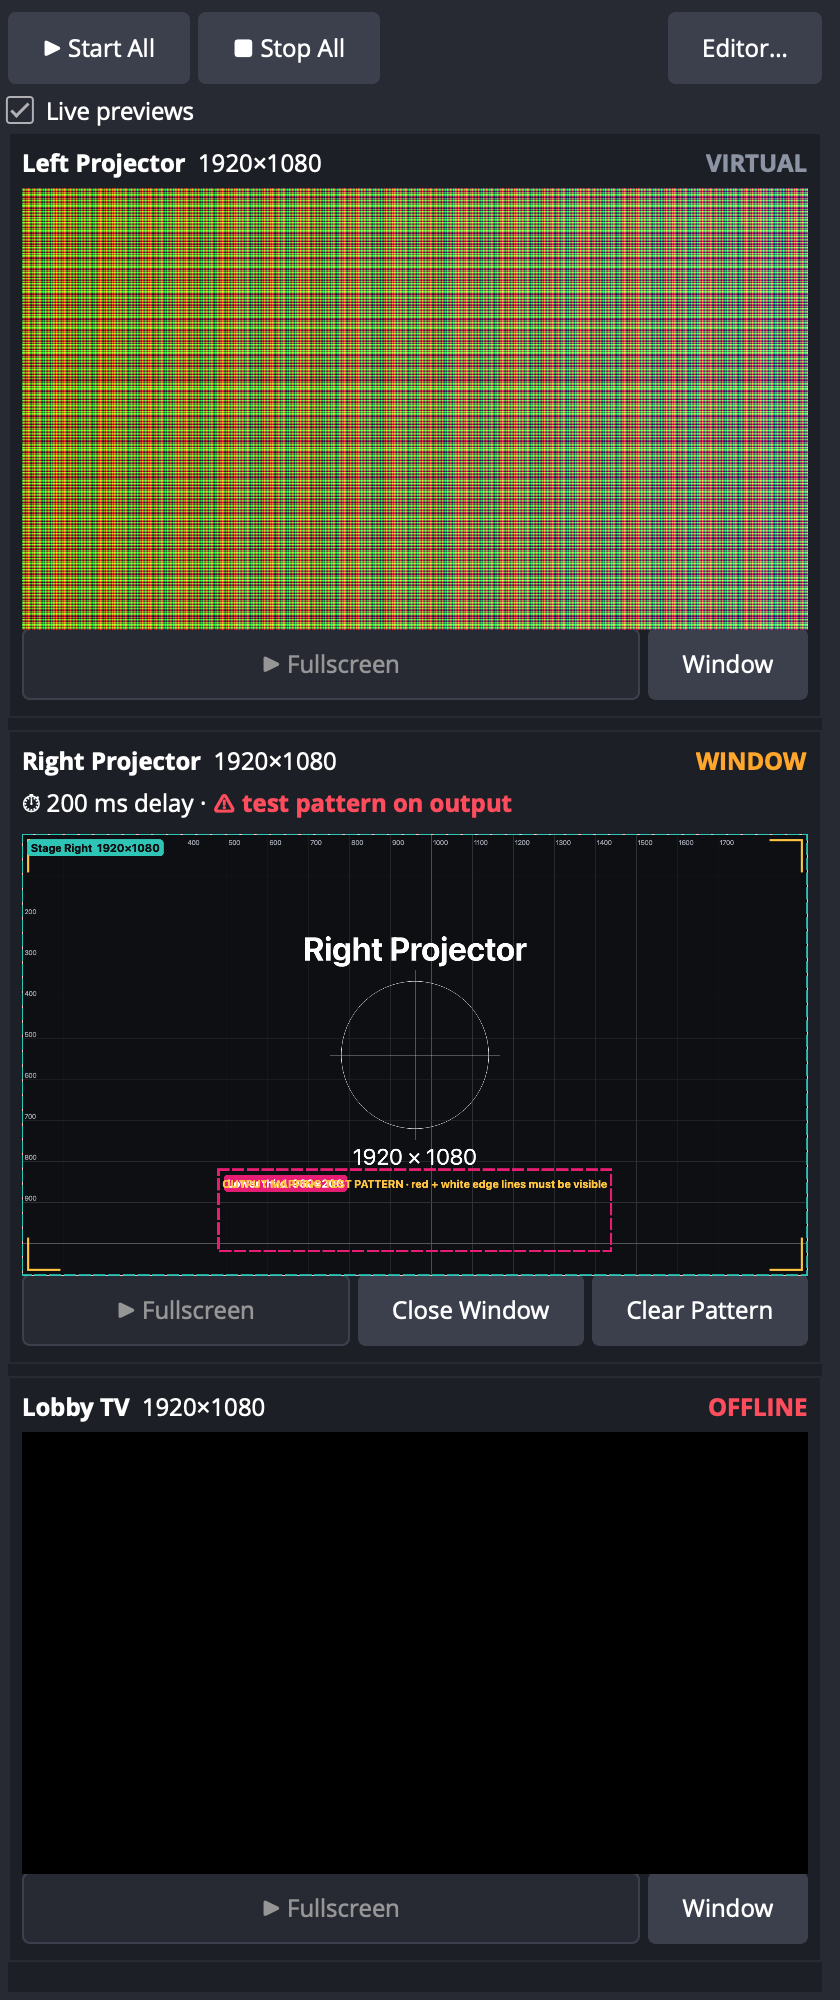
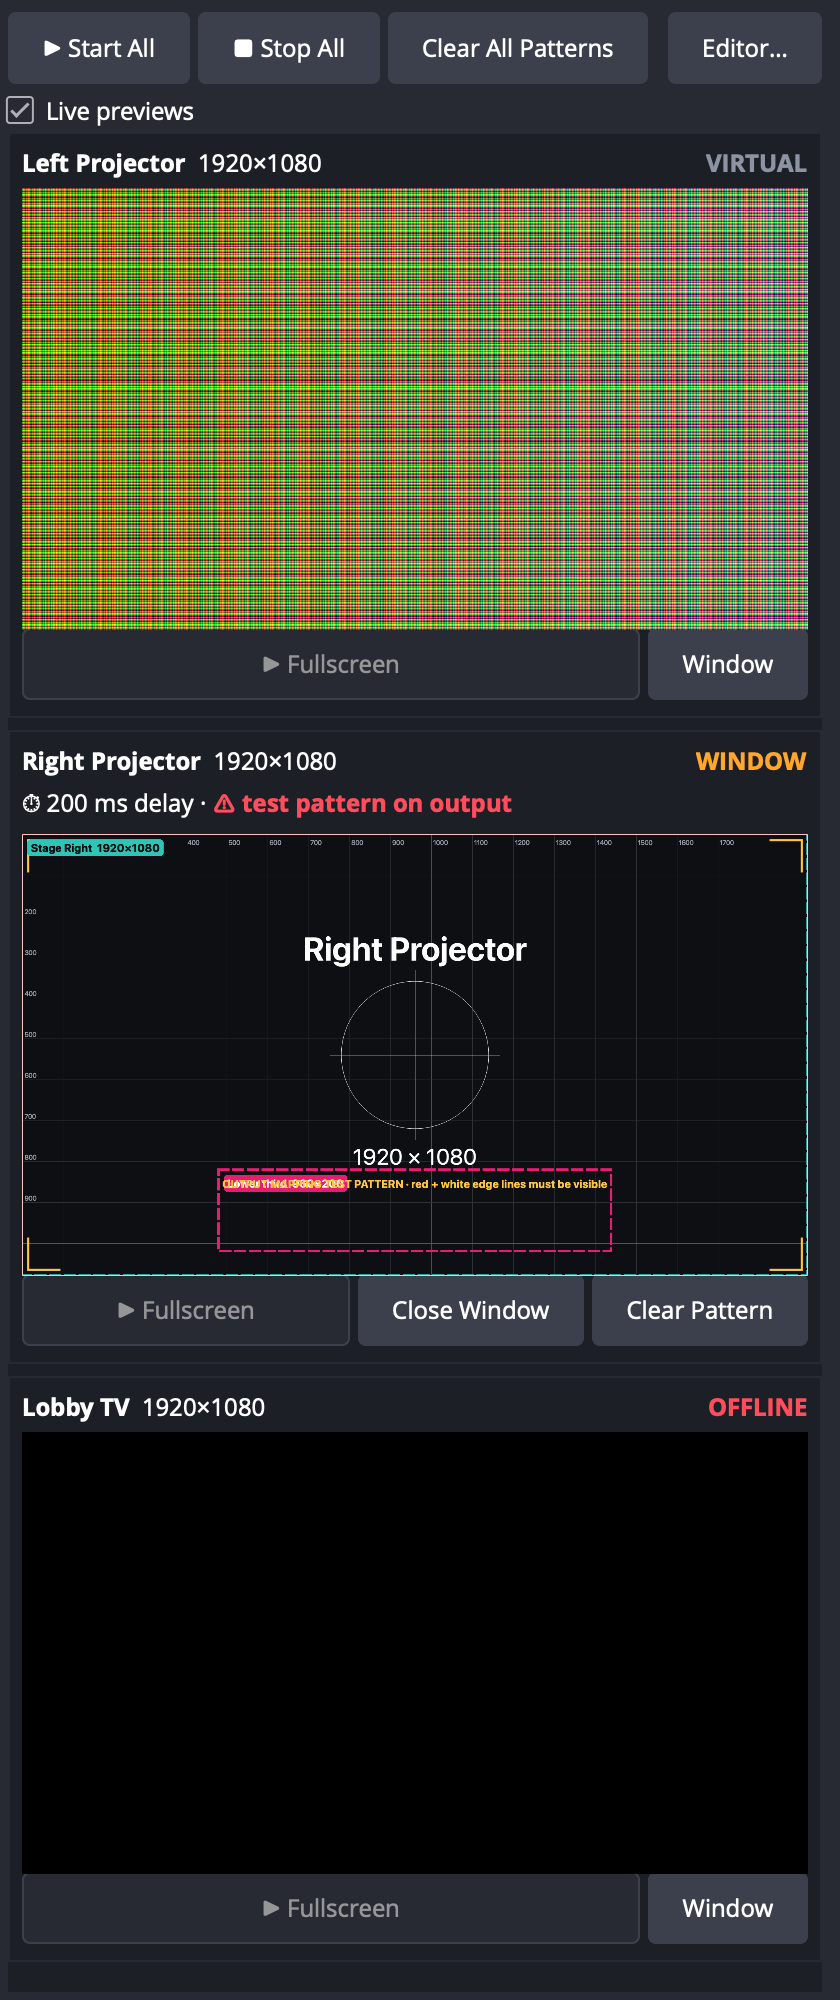
Test Pattern on all displays (dock + editor), edge frame always on top
- Dock 'Test Pattern All' / 'Clear All Patterns' toggle and editor
  Options > Test Pattern on All Displays; asks first when outputs are live;
  obs-websocket SetIdentify {all: true}
- Test pattern draws the red/white edge frame last so a slice outline at
  the display edge can't hide it (found by the new acceptance check)
- Acceptance 74/74

Changed region(s): [[0.4643, 0.0, 0.7738, 0.062]]

diff --git a/src/ui/status-text.hpp b/src/ui/status-text.hpp
@@ -16,6 +16,8 @@ the Free Software Foundation; either version 2 of the License, or
 #include "ui/theme.hpp"
 
 #include <QColor>
+#include <QMessageBox>
+#include <QPushButton>
 #include <QString>
 
 namespace om {
@@ -66,6 +68,35 @@ inline QString statusBadge(const DisplayStatus &st, DisplayKind kind, OutputMode
 		color = QColor(theme::kOk);
 		return QStringLiteral("READY");
 	}
+}
+
+/* Toggle the test pattern on every display. Asks first when outputs are
+ * live. Returns true if the state changed. */
+inline bool toggleTestPatternAll(QWidget *parent)
+{
+	Controller *c = Controller::instance();
+	if (c->identifyCount() > 0) {
+		c->clearIdentify();
+		return true;
+	}
+	if (c->doc().displays.empty())
+		return false;
+	const int live = c->liveFullscreenCount();
+	if (live > 0) {
+		QMessageBox box(QMessageBox::Warning, QStringLiteral("Test Pattern on All Displays?"),
+				QStringLiteral("%1 display(s) are live. The test pattern will appear on every display, "
+					       "in front of the audience, until you clear it.")
+					.arg(live),
+				QMessageBox::NoButton, parent);
+		QPushButton *show = box.addButton(QStringLiteral("Show on All Outputs"), QMessageBox::AcceptRole);
+		box.addButton(QMessageBox::Cancel);
+		box.setDefaultButton(QMessageBox::Cancel);
+		box.exec();
+		if (box.clickedButton() != show)
+			return false;
+	}
+	c->setIdentifyAll(Identify::Pattern);
+	return true;
 }
 
 } // namespace om

diff --git a/src/ui/output-dock.cpp b/src/ui/output-dock.cpp
@@ -102,8 +102,19 @@ OutputDock::OutputDock(std::function<void()> openEditor, QWidget *parent)
 	stopAll->setToolTip(QStringLiteral("Stop every output (asks first if any are live)"));
 	auto *editor = new QPushButton(QStringLiteral("Editor…"), this);
 	editor->setToolTip(QStringLiteral("Open the Output Mapping editor"));
+	auto *patternsAll = new QPushButton(this);
+	patternsAll->setToolTip(QStringLiteral("Show the test pattern on every display (asks first if any are "
+					       "live); click again to clear all"));
+	auto updatePatternsAll = [patternsAll]() {
+		const bool any = Controller::instance()->identifyCount() > 0;
+		patternsAll->setText(any ? QStringLiteral("Clear All Patterns") : QStringLiteral("Test Pattern All"));
+	};
+	updatePatternsAll();
+	connect(patternsAll, &QPushButton::clicked, this, [this]() { toggleTestPatternAll(this); });
+	connect(Controller::instance(), &Controller::identifyChanged, patternsAll, updatePatternsAll);
 	bar->addWidget(startAll);
 	bar->addWidget(stopAll);
+	bar->addWidget(patternsAll);
 	bar->addStretch(1);
 	bar->addWidget(editor);
 	root->addLayout(bar);

diff --git a/src/render/identify-image.cpp b/src/render/identify-image.cpp
@@ -113,7 +113,12 @@ QImage makeTestPattern(const DisplayMapping &d, bool withSlices)
 		p.drawRect(QRect(sx > 0 ? c.x() : c.x() - th, sy > 0 ? c.y() : c.y() - len, th, len));
 	}
 
-	/* Exact-edge border: outermost pixel red, next pixel white. If either
+	/* Slice placement on this display. */
+	p.setRenderHint(QPainter::Antialiasing, false);
+	if (withSlices)
+		drawSliceOutlines(p, d, true, unit);
+
+	/* Exact-edge border (drawn last so nothing covers it): outermost pixel red, next pixel white. If either
 	 * is missing on the screen, the display is cropping (overscan). */
 	auto frame = [&](int inset, const QColor &col) {
 		p.fillRect(inset, inset, w - 2 * inset, 1, col);
@@ -123,11 +128,6 @@ QImage makeTestPattern(const DisplayMapping &d, bool withSlices)
 	};
 	frame(0, QColor(255, 40, 40));
 	frame(1, QColor(255, 255, 255));
-
-	/* Slice placement on this display. */
-	p.setRenderHint(QPainter::Antialiasing, false);
-	if (withSlices)
-		drawSliceOutlines(p, d, true, unit);
 
 	/* Identity text, above and below the centre circle. */
 	p.setRenderHint(QPainter::TextAntialiasing, true);

diff --git a/tools/acceptance_test.py b/tools/acceptance_test.py
@@ -561,6 +561,17 @@ def phase_mapping(ws, work, fullscreen_builtin):
     r = ws.vendor("StartFullscreen", {"displayName": "Twin Display"})
     check("StartFullscreen refused on ambiguous display", not r.get("ok"), r.get("error", ""))
 
+    # Test pattern on all displays, then clear all.
+    r = ws.vendor("SetIdentify", {"mode": "pattern", "all": True})
+    check("Test pattern on all displays",
+          all(d["identify"] == "pattern" for d in r["state"]["displays"]), str([d["identify"] for d in r["state"]["displays"]]))
+    time.sleep(0.3)
+    a = snapshot(ws, "HDMI-1", os.path.join(work, "all_pattern_hdmi1.ppm"))
+    check("HDMI-1 shows the test pattern edge", max(abs(x - y) for x, y in zip(pixel(a, 0, 0), (255, 40, 40))) <= 3,
+          str(pixel(a, 0, 0)))
+    r = ws.vendor("SetIdentify", {"mode": "clear"})
+    check("Clear all patterns", all(d["identify"] == "off" for d in r["state"]["displays"]))
+
     # OBS dock: one live tile per display.
     time.sleep(0.5)  # the dock coalesces bursts of changes (50 ms)
     st = state(ws)

diff --git a/src/ui/mapping-editor.cpp b/src/ui/mapping-editor.cpp
@@ -524,6 +524,11 @@ void MappingEditor::buildUi()
 	captureAct_->setToolTip(QStringLiteral("Display/window capture can't see the outputs, so Program can never "
 					       "contain its own output"));
 	optMenu->addSeparator();
+	optMenu->addAction(QStringLiteral("Test Pattern on All Displays"), this, [this]() {
+		if (c_->identifyCount() > 0)
+			c_->clearIdentify(); /* start from a clean state, then show on all */
+		toggleTestPatternAll(this);
+	});
 	clearIdentifyAct_ =
 		optMenu->addAction(QStringLiteral("Clear All Test Patterns"), this, [this]() { c_->clearIdentify(); });
 	optMenu->addAction(QStringLiteral("Keyboard Shortcuts…"), this, &MappingEditor::showShortcuts);

diff --git a/src/controller.cpp b/src/controller.cpp
@@ -1060,6 +1060,28 @@ int Controller::identifyCount() const
 	return (int)identify_.size();
 }
 
+void Controller::setIdentifyAll(Identify mode)
+{
+	if (mode == Identify::Off) {
+		clearIdentify();
+		return;
+	}
+	for (const auto &d : doc_.displays)
+		identify_.insert(d.id, mode);
+	blog(LOG_INFO, "[output-mapping] identify on all %d display(s)", (int)doc_.displays.size());
+	publishRender();
+	emit identifyChanged();
+}
+
+int Controller::liveFullscreenCount() const
+{
+	int n = 0;
+	for (const auto &d : doc_.displays)
+		if (outputMode(d.id) == OutputMode::Fullscreen)
+			n++;
+	return n;
+}
+
 void Controller::clearIdentify()
 {
 	if (identify_.isEmpty())

diff --git a/src/plugin-main.cpp b/src/plugin-main.cpp
@@ -370,6 +370,12 @@ VENDOR_REQ(SetIdentify)
 			Controller::instance()->clearIdentify();
 			return setStateJson(res);
 		}
+		if (obs_data_get_bool(req, "all")) {
+			Controller::instance()->setIdentifyAll(mode == QLatin1String("pattern")    ? Identify::Pattern
+							       : mode == QLatin1String("outlines") ? Identify::Outlines
+												   : Identify::Off);
+			return setStateJson(res);
+		}
 		QString id = resolveDisplay(req);
 		if (id.isEmpty())
 			return setError(res, "unknown display");

diff --git a/src/controller.hpp b/src/controller.hpp
@@ -147,6 +147,8 @@ public:
 	Identify identify(const QString &displayId) const { return identify_.value(displayId, Identify::Off); }
 	int identifyCount() const;
 	void clearIdentify();
+	void setIdentifyAll(Identify mode); /* every display */
+	int liveFullscreenCount() const;
 
 	/* Offscreen render of exactly what the display receives. */
 	QImage snapshot(const QString &displayId, QString *error = nullptr);

diff --git a/README.md b/README.md
@@ -39,6 +39,7 @@ is the place they would go).
   test patterns), its status (LIVE / WINDOW / READY / OFFLINE / CHECK /
   VIRTUAL), ⏱ delay and ⚠ test-pattern markers, per-display **Fullscreen**,
   **Window** and **Clear Pattern** buttons, plus **Start All**, **Stop All**
+  (asks first when live), **Test Pattern All** / **Clear All Patterns**
   (asks first when live) and **Editor…**. "Live previews" pauses the
   thumbnails if you need to save GPU; outputs are unaffected.
 
@@ -90,8 +91,9 @@ is the place they would go).
       draggable outlines on top, so you can fit slices against it.
     - If the display is live, it asks first ("this will take over what the
       audience sees"). A red **ON OUTPUT** badge shows in the sidebar and
-      header while it's on, and *Options ▸ Clear All Test Patterns* turns
-      every one off. Identify is never saved: OBS always starts with it
+      header while it's on. *Test Pattern All* (dock, or *Options ▸ Test
+      Pattern on All Displays*) puts it on every display at once, and
+      *Clear All Patterns* turns every one off. Identify is never saved: OBS always starts with it
       off. It ignores the output delay so you see changes instantly.
   - **Lock slices** that are set up correctly: tick **🔒 Locked** in the
     slice panel, press Ctrl/⌘+L, or right-click it (or *Lock All Slices* on

diff --git a/VERIFICATION.md b/VERIFICATION.md
@@ -22,7 +22,7 @@ versions as untested.
   snapping, numeric edits, fit, 1:1, clipping) and display identity
   matching (exact UUID, serial re-identification, twin units, missing
   serials, duplicate UUIDs). **All pass.**
-- `tools/acceptance_test.py` against a real OBS 33.0.1: **71/71 checks pass** (full log: [docs/results/acceptance-run.txt](docs/results/acceptance-run.txt))
+- `tools/acceptance_test.py` against a real OBS 33.0.1: **74/74 checks pass** (full log: [docs/results/acceptance-run.txt](docs/results/acceptance-run.txt))
 
 The acceptance test runs the six steps of the requested acceptance test.
 Since only one physical display was available, the two 1920×1080 outputs
